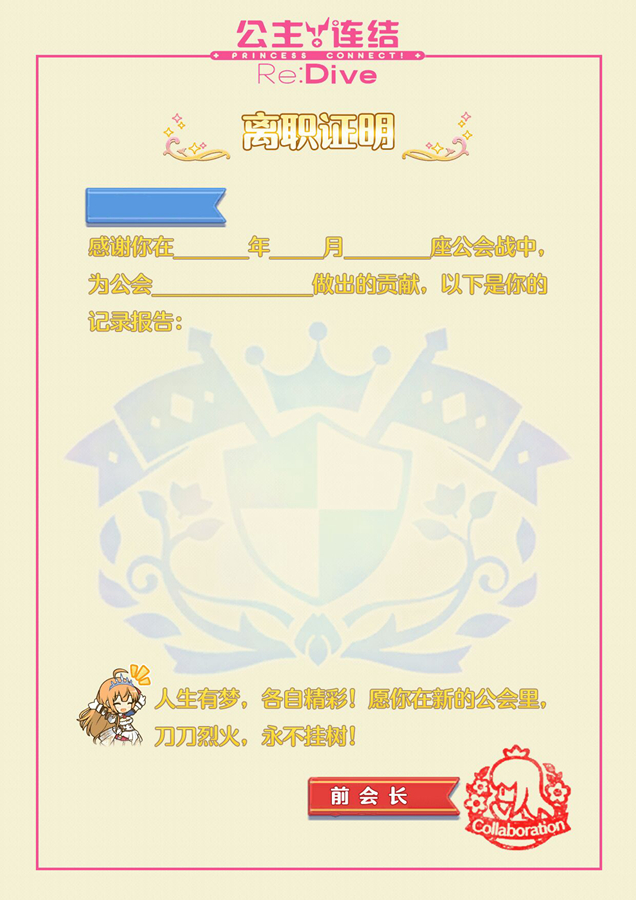
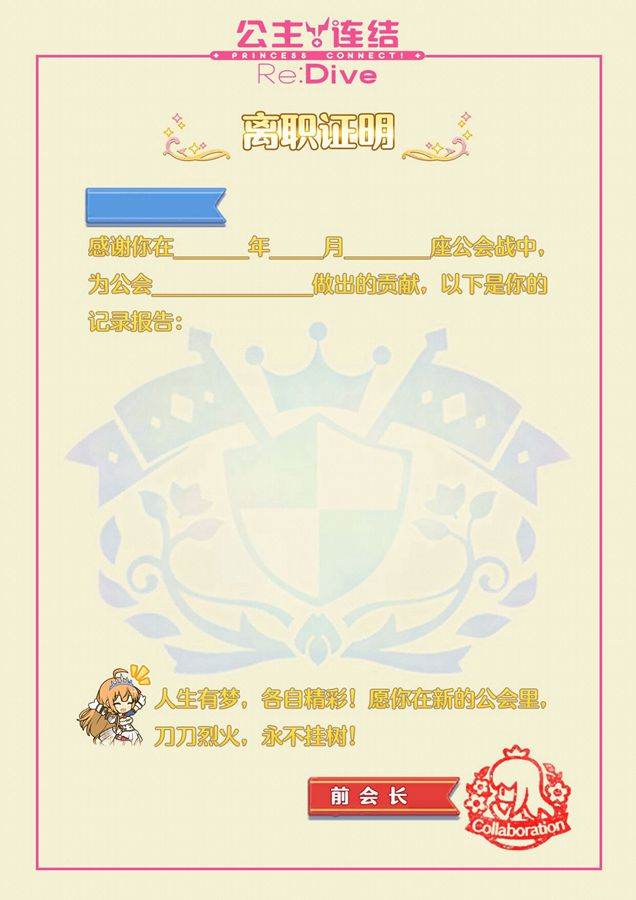
update

diff --git a/pages/PCR_tools/guild_battle_record/guild_battle_record.scss b/pages/PCR_tools/guild_battle_record/guild_battle_record.scss
@@ -253,7 +253,8 @@ input[type="number"]{
 		right: 0;
 	}
 	.cert-page {
-		background-image: url(https://s1.ax1x.com/2020/07/10/Uu1krt.jpg);
+		//background-image: url(https://s1.ax1x.com/2020/07/10/Uu1krt.jpg);
+		background-image: url("../cert_bg.jpg");
 		background-size: cover;
 		background-repeat: no-repeat;
 		width: 636px;
@@ -263,7 +264,8 @@ input[type="number"]{
 			position: absolute;
 			top: 0;
 			left: 0;
-			background-image: url(https://s1.ax1x.com/2020/07/10/Uu1C2d.jpg);
+			//background-image: url(https://s1.ax1x.com/2020/07/10/Uu1C2d.jpg);
+			background-image: url("../cert_bg_low_def.jpg");
 			background-size: cover;
 			background-repeat: no-repeat;
 			height: 100%;

diff --git a/pages/PCR_tools/leave_cert.scss b/pages/PCR_tools/leave_cert.scss
@@ -154,7 +154,8 @@ input[type="number"]{
 		right: 0;
 	}
 	.cert-page {
-		background-image: url(https://s1.ax1x.com/2020/07/10/Uu1krt.jpg);
+		//background-image: url(https://s1.ax1x.com/2020/07/10/Uu1krt.jpg);
+		background-image: url("cert_bg.jpg");
 		background-size: cover;
 		background-repeat: no-repeat;
 		width: 636px;
@@ -164,7 +165,8 @@ input[type="number"]{
 			position: absolute;
 			top: 0;
 			left: 0;
-			background-image: url(https://s1.ax1x.com/2020/07/10/Uu1C2d.jpg);
+			//background-image: url(https://s1.ax1x.com/2020/07/10/Uu1C2d.jpg);
+			background-image: url("cert_bg_low_def.jpg");
 			background-size: cover;
 			background-repeat: no-repeat;
 			height: 100%;

diff --git a/pages/PCR_tools/guild_battle_record/guild_battle_record.css b/pages/PCR_tools/guild_battle_record/guild_battle_record.css
@@ -229,7 +229,7 @@ input[type="number"] {
     bottom: 0;
     right: 0; }
   .cert-box .cert-page {
-    background-image: url(https://s1.ax1x.com/2020/07/10/Uu1krt.jpg);
+    background-image: url("../cert_bg.jpg");
     background-size: cover;
     background-repeat: no-repeat;
     width: 636px;
@@ -239,7 +239,7 @@ input[type="number"] {
       position: absolute;
       top: 0;
       left: 0;
-      background-image: url(https://s1.ax1x.com/2020/07/10/Uu1C2d.jpg);
+      background-image: url("../cert_bg_low_def.jpg");
       background-size: cover;
       background-repeat: no-repeat;
       height: 100%;

diff --git a/pages/PCR_tools/leave_cert.css b/pages/PCR_tools/leave_cert.css
@@ -141,7 +141,7 @@ input[type="number"] {
     bottom: 0;
     right: 0; }
   .cert-box .cert-page {
-    background-image: url(https://s1.ax1x.com/2020/07/10/Uu1krt.jpg);
+    background-image: url("cert_bg.jpg");
     background-size: cover;
     background-repeat: no-repeat;
     width: 636px;
@@ -151,7 +151,7 @@ input[type="number"] {
       position: absolute;
       top: 0;
       left: 0;
-      background-image: url(https://s1.ax1x.com/2020/07/10/Uu1C2d.jpg);
+      background-image: url("cert_bg_low_def.jpg");
       background-size: cover;
       background-repeat: no-repeat;
       height: 100%;

diff --git a/pages/PCR_tools/guild_battle_record/3rd_Gemini_20200630_20200705/index.js b/pages/PCR_tools/guild_battle_record/3rd_Gemini_20200630_20200705/index.js
@@ -71,6 +71,17 @@ let vm = new Vue({
   mounted () {
     this.loadingMask = false;
 
+    const bgImg = new Image();
+    bgImg.src = "../cert_bg.jpg";
+    let bgLoadTimer = setInterval(()=>{
+      if(bgImg.complete)
+      {
+        clearInterval(bgLoadTimer);
+        //this.popupFlags.certLowDefBg = false;
+        console.log('加载完毕');
+      }
+    },100);
+
     //this.genCert();
   },
 

diff --git a/pages/PCR_tools/leave_cert.js b/pages/PCR_tools/leave_cert.js
@@ -33,6 +33,18 @@ let vm = new Vue({
   mounted () {
     this.loadingMask = false;
     this.init();
+
+    const bgImg = new Image();
+    bgImg.src = "cert_bg.jpg";
+    let bgLoadTimer = setInterval(()=>{
+      if(bgImg.complete)
+      {
+        clearInterval(bgLoadTimer);
+        this.showLowDefBg = false;
+        console.log('加载完毕');
+      }
+    },100);
+
   },
 
   destroyed () {
